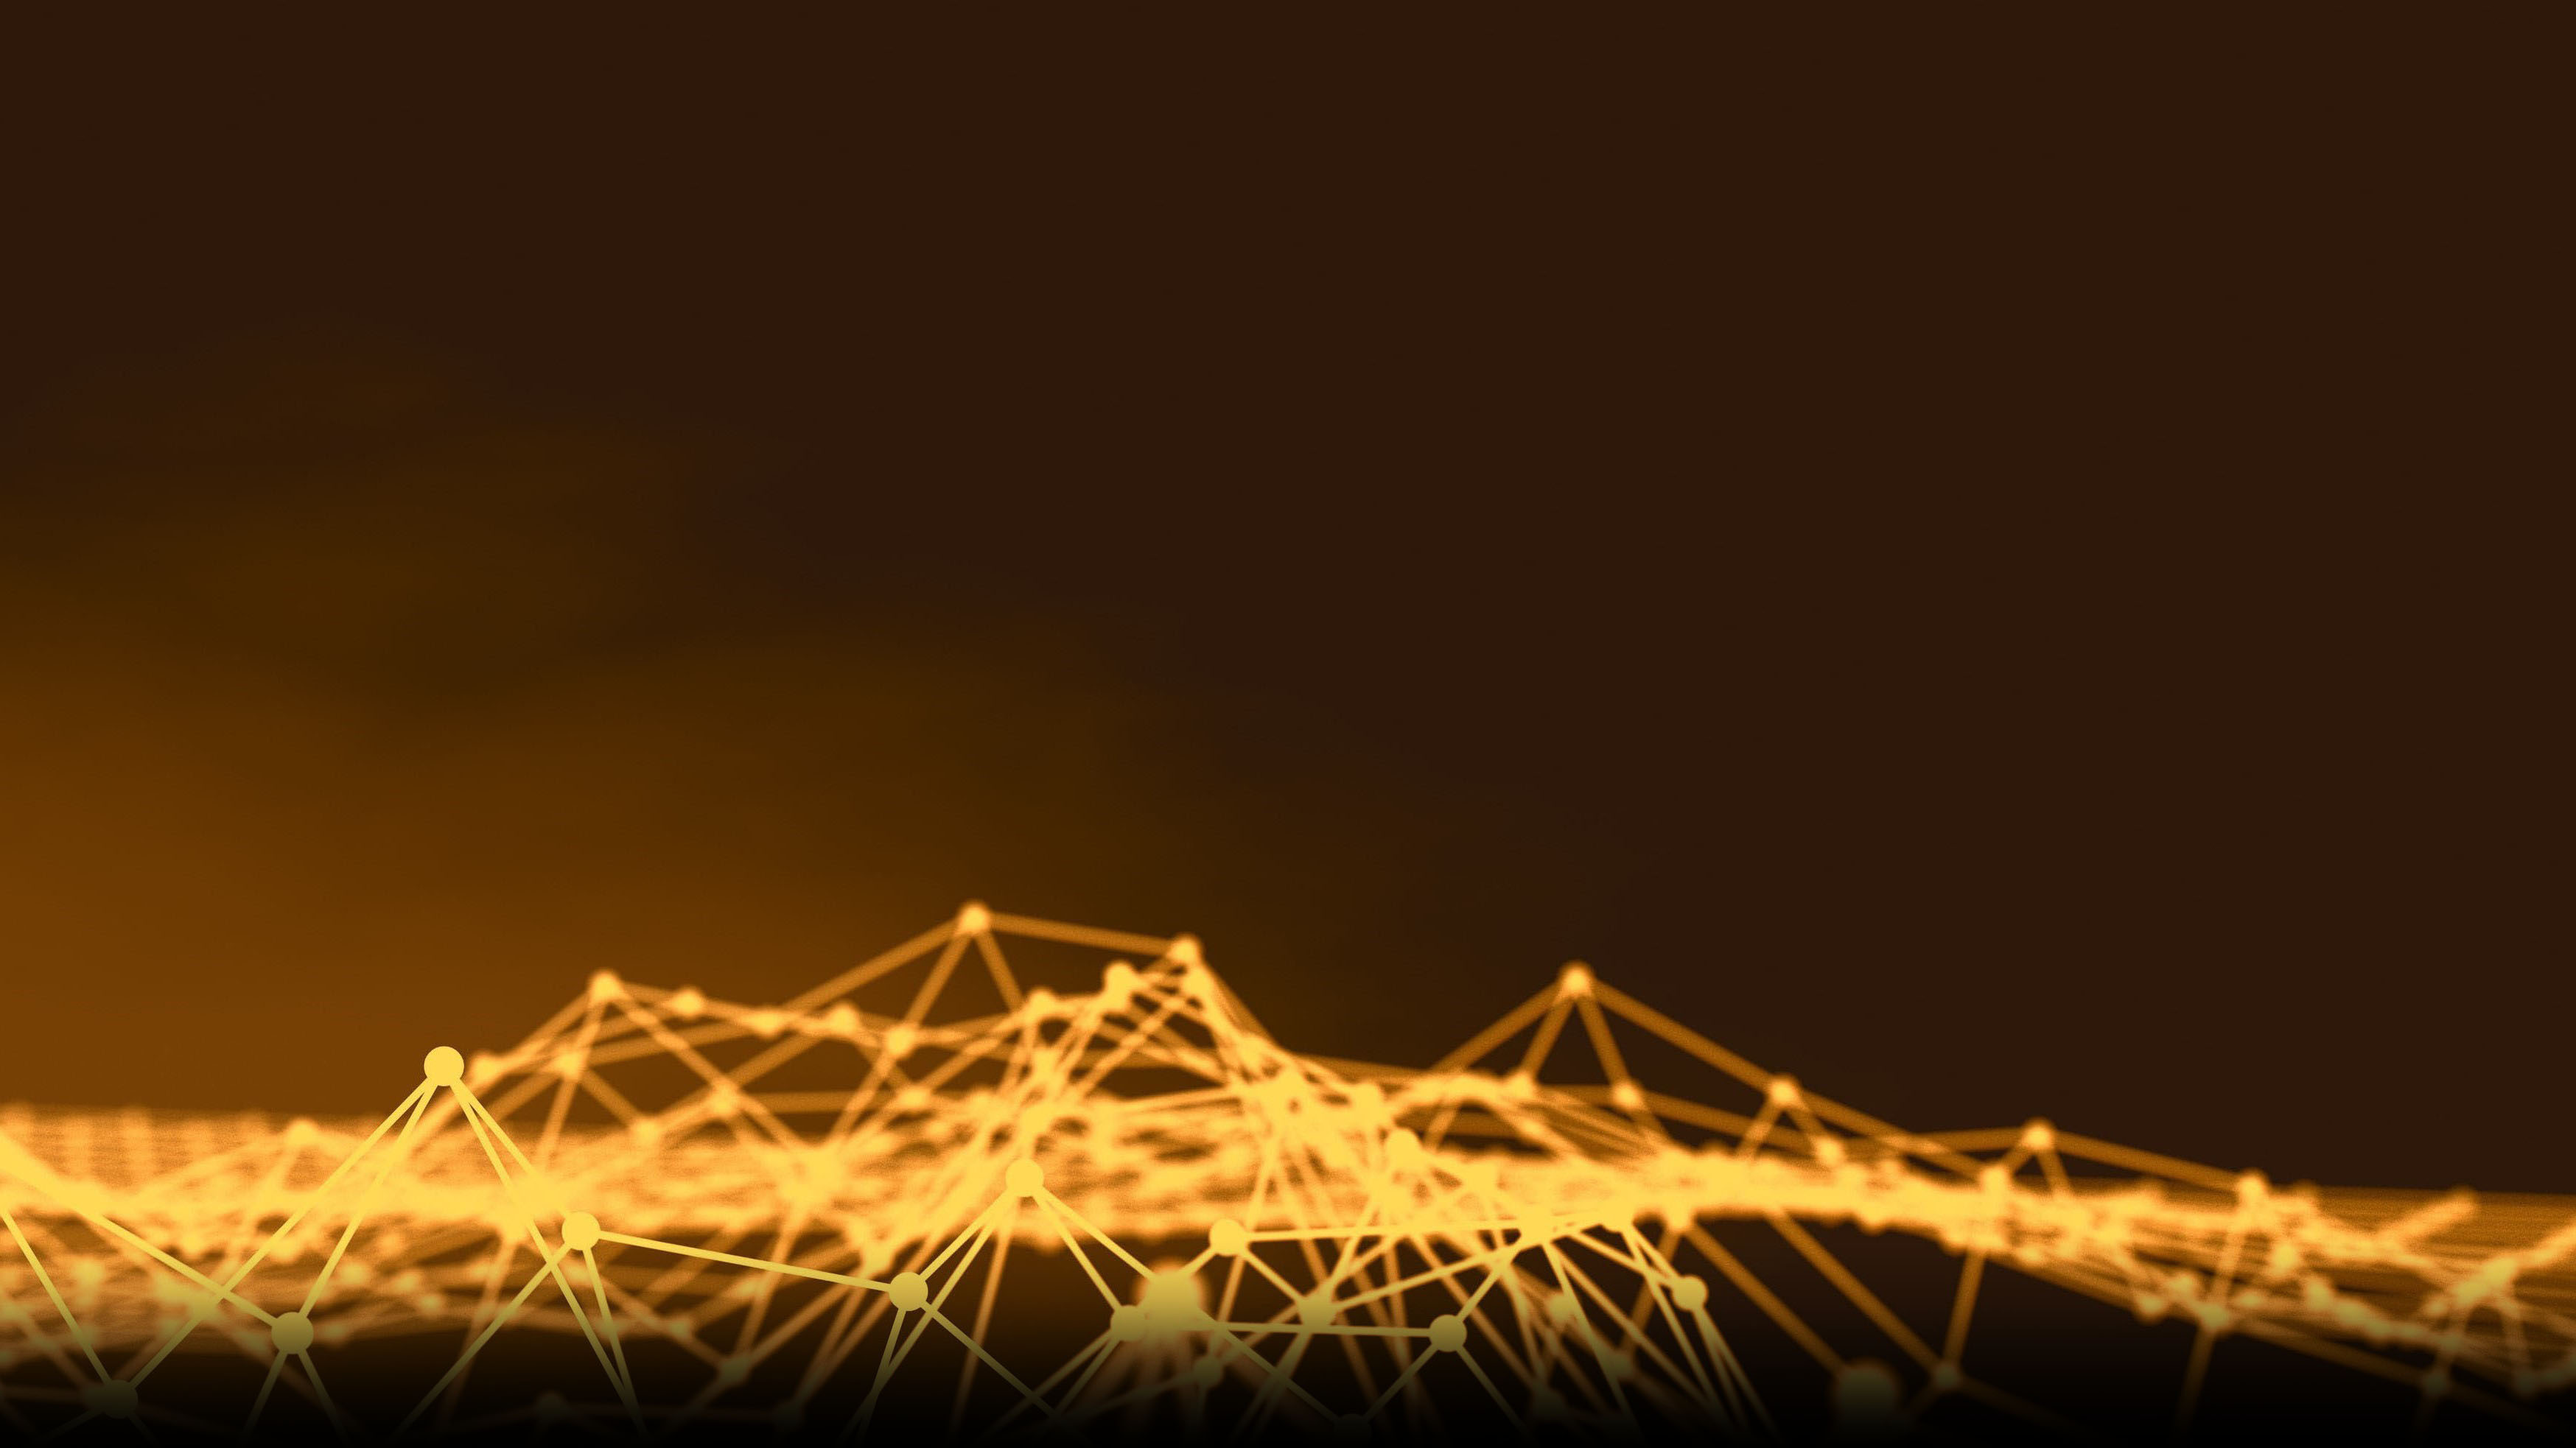
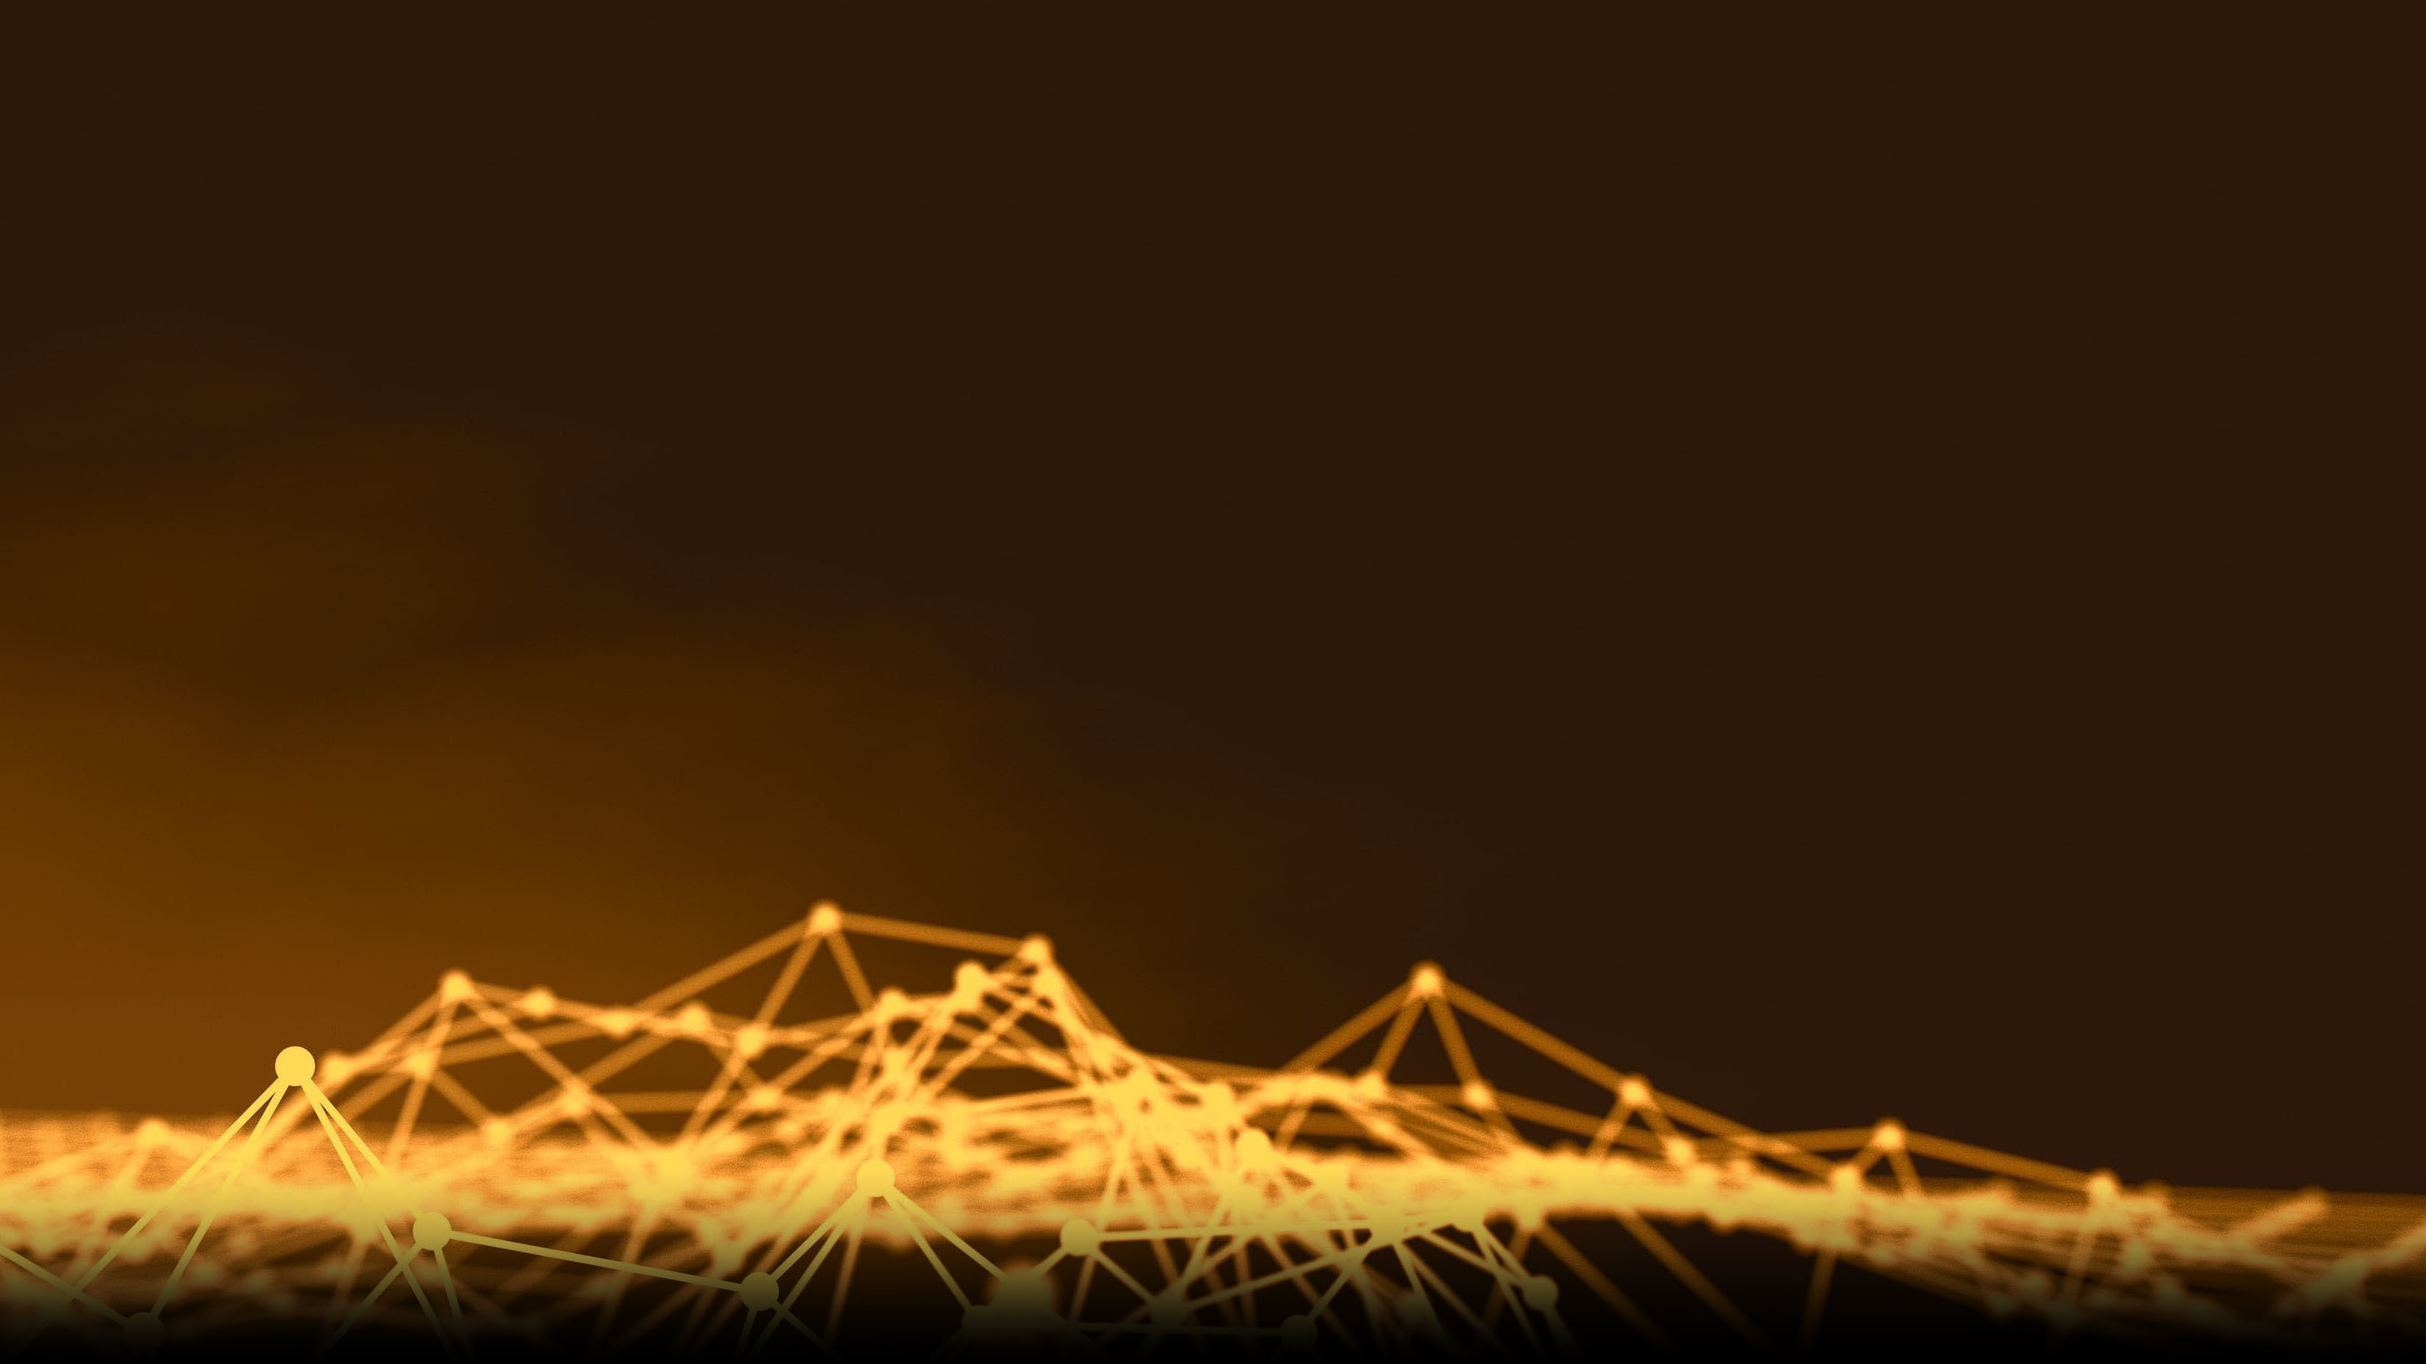
t

Changed region(s): [[0.0, 0.6156, 1.0, 0.9849]]

diff --git a/css/grayscale.min.css b/css/grayscale.min.css
@@ -2,4 +2,4 @@
  * Start Bootstrap - Grayscale v3.3.7+1 (http://startbootstrap.com/template-overviews/grayscale)
  * Copyright 2013-2016 Start Bootstrap
  * Licensed under MIT (https://github.com/BlackrockDigital/startbootstrap/blob/gh-pages/LICENSE)
- */body,html{height:100%;width:100%}.btn,.navbar-custom{text-transform:uppercase}.navbar-custom,body{background-color:#000}.intro,body,html{width:100%}body{font-family:Lora,"Helvetica Neue",Helvetica,Arial,sans-serif;color:#fff;webkit-tap-highlight-color:rgba(255,255,255,.2)}.btn,.navbar-custom,h1,h2,h3,h4,h5,h6{font-family:Montserrat,"Helvetica Neue",Helvetica,Arial,sans-serif}h1,h2,h3,h4,h5,h6{margin:0 0 35px;font-weight:700;letter-spacing:5px}p{margin:0 0 25px;font-size:18px;line-height:1.5}@media (min-width:768px){p{margin:0 0 35px;font-size:20px;line-height:1.6}}a{color:#fbff00;-webkit-transition:all .2s ease-in-out;-moz-transition:all .2s ease-in-out;transition:all .2s ease-in-out}a:focus,a:hover{text-decoration:none;color:#979900}.light{font-weight:400}.navbar-custom{margin-bottom:0;border-bottom:1px solid rgba(255,255,255,.3)}.navbar-custom .navbar-toggle{color:#fff;background-color:rgba(255,255,255,.2);font-size:12px}.navbar-custom .nav li a:active,.navbar-custom .nav li a:focus,.navbar-custom .nav li a:hover{background-color:transparent;outline:0}.navbar-custom .navbar-toggle:active,.navbar-custom .navbar-toggle:focus{outline:0}.navbar-custom .navbar-brand{font-weight:700}.navbar-custom .navbar-brand:focus{outline:0}.navbar-custom a{color:#fff}.navbar-custom .nav li a{-webkit-transition:background .3s ease-in-out;-moz-transition:background .3s ease-in-out;transition:background .3s ease-in-out}.navbar-custom .nav li a:hover{color:rgba(255,255,255,.8)}.btn-circle,.intro,.navbar-custom .nav li.active a:hover{color:#fff}.navbar-custom .nav li.active{outline:0}.navbar-custom .nav li.active a{background-color:rgba(255,255,255,.3)}@media (min-width:768px){.navbar-custom{padding:20px 0;border-bottom:none;letter-spacing:1px;background:0 0;-webkit-transition:background .5s ease-in-out,padding .5s ease-in-out;-moz-transition:background .5s ease-in-out,padding .5s ease-in-out;transition:background .5s ease-in-out,padding .5s ease-in-out}.navbar-custom.top-nav-collapse{padding:0;background:#000;border-bottom:1px solid rgba(255,255,255,.3)}}.intro{display:table;height:auto;padding:100px 0;text-align:center;background:url(../img/intro-bg.jpg) bottom center no-repeat #000;-webkit-background-size:cover;-moz-background-size:cover;background-size:cover;-o-background-size:cover}.intro .intro-body{display:table-cell;vertical-align:middle}.intro .intro-body .brand-heading{font-size:40px;letter-spacing:20px;text-shadow:-2px -2px 0 #000,2px -2px 0 #000,-2px 2px 0 #000,2px 2px 0 #000}.intro .intro-body .intro-text{font-size:26px;text-shadow:-1px -1px 0 #000,1px -1px 0 #000,-1px 1px 0 #000,1px 1px 0 #000}@media (min-width:768px){.intro{height:100%;padding:0}.intro .intro-body .brand-heading{font-size:100px}.intro .intro-body .intro-text{font-size:32px}}.btn-circle{width:70px;height:70px;margin-top:15px;padding:7px 16px;border:2px solid #fff;border-radius:100%!important;font-size:40px;background:0 0;-webkit-transition:background .3s ease-in-out;-moz-transition:background .3s ease-in-out;transition:background .3s ease-in-out}.btn-circle:focus,.btn-circle:hover{outline:0;color:#fff;background:rgba(255,255,255,.1)}.btn-circle i.animated{-webkit-transition-property:-webkit-transform;-webkit-transition-duration:.5s;-moz-transition-property:-moz-transform;-moz-transition-duration:.5s}.btn-circle:hover i.animated{-webkit-animation-name:pulse;-moz-animation-name:pulse;-webkit-animation-duration:.5s;-moz-animation-duration:.5s;-webkit-animation-iteration-count:infinite;-moz-animation-iteration-count:infinite;-webkit-animation-timing-function:linear;-moz-animation-timing-function:linear}@-webkit-keyframes pulse{0%,100%{-webkit-transform:scale(1);transform:scale(1)}50%{-webkit-transform:scale(1.2);transform:scale(1.2)}}@-moz-keyframes pulse{0%,100%{-moz-transform:scale(1);transform:scale(1)}50%{-moz-transform:scale(1.2);transform:scale(1.2)}}.content-section{padding-top:100px}.download-section{width:100%;padding:50px 0;color:#fbff00;background:url(../img/downloads-bg.png) center center no-repeat #000;-webkit-background-size:cover;-moz-background-size:cover;background-size:cover;-o-background-size:cover}#map{width:100%;height:200px;margin-top:100px}@media (min-width:767px){.content-section{padding-top:250px}.download-section{padding:100px 0}#map{height:400px;margin-top:250px}}.btn{font-weight:400;-webkit-transition:all .3s ease-in-out;-moz-transition:all .3s ease-in-out;transition:all .3s ease-in-out;border-radius:0}.btn-default{border:1px solid #fbff00;color:#fbff00;background-color:transparent}.btn-default:focus,.btn-default:hover{border:1px solid #fbff00;outline:0;color:#000;background-color:#fbff00}ul.banner-social-buttons{margin-top:0}@media (max-width:1199px){ul.banner-social-buttons{margin-top:15px}}@media (max-width:767px){ul.banner-social-buttons li{display:block;margin-bottom:20px;padding:0}ul.banner-social-buttons li:last-child{margin-bottom:0}}footer{padding:50px 0}footer p{margin:0}::-moz-selection{text-shadow:none;background:#fcfcfc;background:rgba(255,255,255,.2)}::selection{text-shadow:none;background:#fcfcfc;background:rgba(255,255,255,.2)}img::selection{background:0 0}img::-moz-selection{background:0 0}
+ */body,html{height:100%;width:100%}.btn,.navbar-custom{text-transform:uppercase}.navbar-custom,body{background-color:#000}.intro,body,html{width:100%}body{font-family:Lora,"Helvetica Neue",Helvetica,Arial,sans-serif;color:#fff;webkit-tap-highlight-color:rgba(255,255,255,.2)}.btn,.navbar-custom,h1,h2,h3,h4,h5,h6{font-family:Montserrat,"Helvetica Neue",Helvetica,Arial,sans-serif}h1,h2,h3,h4,h5,h6{margin:0 0 35px;font-weight:700;letter-spacing:5px}p{margin:0 0 25px;font-size:18px;line-height:1.5}@media (min-width:768px){p{margin:0 0 35px;font-size:20px;line-height:1.6}}a{color:#fed154;-webkit-transition:all .2s ease-in-out;-moz-transition:all .2s ease-in-out;transition:all .2s ease-in-out}a:focus,a:hover{text-decoration:none;color:#ebad01}.light{font-weight:400}.navbar-custom{margin-bottom:0;border-bottom:1px solid rgba(255,255,255,.3)}.navbar-custom .navbar-toggle{color:#fff;background-color:rgba(255,255,255,.2);font-size:12px}.navbar-custom .nav li a:active,.navbar-custom .nav li a:focus,.navbar-custom .nav li a:hover{background-color:transparent;outline:0}.navbar-custom .navbar-toggle:active,.navbar-custom .navbar-toggle:focus{outline:0}.navbar-custom .navbar-brand{font-weight:700}.navbar-custom .navbar-brand:focus{outline:0}.navbar-custom a{color:#fff}.navbar-custom .nav li a{-webkit-transition:background .3s ease-in-out;-moz-transition:background .3s ease-in-out;transition:background .3s ease-in-out}.navbar-custom .nav li a:hover{color:rgba(255,255,255,.8)}.btn-circle,.intro,.navbar-custom .nav li.active a:hover{color:#fff}.navbar-custom .nav li.active{outline:0}.navbar-custom .nav li.active a{background-color:rgba(255,255,255,.3)}@media (min-width:768px){.navbar-custom{padding:20px 0;border-bottom:none;letter-spacing:1px;background:0 0;-webkit-transition:background .5s ease-in-out,padding .5s ease-in-out;-moz-transition:background .5s ease-in-out,padding .5s ease-in-out;transition:background .5s ease-in-out,padding .5s ease-in-out}.navbar-custom.top-nav-collapse{padding:0;background:#000;border-bottom:1px solid rgba(255,255,255,.3)}}.intro{display:table;height:auto;padding:100px 0;text-align:center;background:url(../img/intro-bg.jpg) bottom center no-repeat #000;-webkit-background-size:cover;-moz-background-size:cover;background-size:cover;-o-background-size:cover}.intro .intro-body{display:table-cell;vertical-align:middle}.intro .intro-body .brand-heading{font-size:40px;letter-spacing:20px;text-shadow:-2px -2px 0 #000,2px -2px 0 #000,-2px 2px 0 #000,2px 2px 0 #000}.intro .intro-body .intro-text{font-size:26px;text-shadow:-1px -1px 0 #000,1px -1px 0 #000,-1px 1px 0 #000,1px 1px 0 #000}@media (min-width:768px){.intro{height:100%;padding:0}.intro .intro-body .brand-heading{font-size:100px}.intro .intro-body .intro-text{font-size:32px}}.btn-circle{width:70px;height:70px;margin-top:15px;padding:7px 16px;border:2px solid #fff;border-radius:100%!important;font-size:40px;background:0 0;-webkit-transition:background .3s ease-in-out;-moz-transition:background .3s ease-in-out;transition:background .3s ease-in-out}.btn-circle:focus,.btn-circle:hover{outline:0;color:#fff;background:rgba(255,255,255,.1)}.btn-circle i.animated{-webkit-transition-property:-webkit-transform;-webkit-transition-duration:.5s;-moz-transition-property:-moz-transform;-moz-transition-duration:.5s}.btn-circle:hover i.animated{-webkit-animation-name:pulse;-moz-animation-name:pulse;-webkit-animation-duration:.5s;-moz-animation-duration:.5s;-webkit-animation-iteration-count:infinite;-moz-animation-iteration-count:infinite;-webkit-animation-timing-function:linear;-moz-animation-timing-function:linear}@-webkit-keyframes pulse{0%,100%{-webkit-transform:scale(1);transform:scale(1)}50%{-webkit-transform:scale(1.2);transform:scale(1.2)}}@-moz-keyframes pulse{0%,100%{-moz-transform:scale(1);transform:scale(1)}50%{-moz-transform:scale(1.2);transform:scale(1.2)}}.content-section{padding-top:100px}.download-section{width:100%;padding:50px 0;color:#fed154;background:url(../img/downloads-bg.png) center center no-repeat #000;-webkit-background-size:cover;-moz-background-size:cover;background-size:cover;-o-background-size:cover}#map{width:100%;height:200px;margin-top:100px}@media (min-width:767px){.content-section{padding-top:250px}.download-section{padding:100px 0}#map{height:400px;margin-top:250px}}.btn{font-weight:400;-webkit-transition:all .3s ease-in-out;-moz-transition:all .3s ease-in-out;transition:all .3s ease-in-out;border-radius:0}.btn-default{border:1px solid #fed154;color:#fed154;background-color:transparent}.btn-default:focus,.btn-default:hover{border:1px solid #fed154;outline:0;color:#000;background-color:#fed154}ul.banner-social-buttons{margin-top:0}@media (max-width:1199px){ul.banner-social-buttons{margin-top:15px}}@media (max-width:767px){ul.banner-social-buttons li{display:block;margin-bottom:20px;padding:0}ul.banner-social-buttons li:last-child{margin-bottom:0}}footer{padding:50px 0}footer p{margin:0}::-moz-selection{text-shadow:none;background:#fcfcfc;background:rgba(255,255,255,.2)}::selection{text-shadow:none;background:#fcfcfc;background:rgba(255,255,255,.2)}img::selection{background:0 0}img::-moz-selection{background:0 0}

diff --git a/css/grayscale.css b/css/grayscale.css
@@ -38,7 +38,7 @@ p {
   }
 }
 a {
-  color: #fbff00;
+  color: #fed154;
   -webkit-transition: all 0.2s ease-in-out;
   -moz-transition: all 0.2s ease-in-out;
   transition: all 0.2s ease-in-out;
@@ -46,7 +46,7 @@ a {
 a:hover,
 a:focus {
   text-decoration: none;
-  color: #979900;
+  color: #ebad01;
 }
 .light {
   font-weight: 400;
@@ -225,7 +225,7 @@ a:focus {
 .download-section {
   width: 100%;
   padding: 50px 0;
-  color: #fbff00;
+  color: #fed154;
   background: url(../img/downloads-bg.png) no-repeat center center scroll;
   background-color: black;
   -webkit-background-size: cover;
@@ -260,16 +260,16 @@ a:focus {
   border-radius: 0;
 }
 .btn-default {
-  border: 1px solid #fbff00;
-  color: #fbff00;
+  border: 1px solid #fed154;
+  color: #fed154;
   background-color: transparent;
 }
 .btn-default:hover,
 .btn-default:focus {
-  border: 1px solid #fbff00;
+  border: 1px solid #fed154;
   outline: none;
   color: black;
-  background-color: #fbff00;
+  background-color: #fed154;
 }
 ul.banner-social-buttons {
   margin-top: 0;

diff --git a/less/grayscale.less b/less/grayscale.less
@@ -249,7 +249,7 @@ a {
 .download-section {
     width: 100%;
     padding: 50px 0;
-    color: #fbff00;
+    color: #fed154;
     background: url(../img/downloads-bg.png) no-repeat center center scroll;
     background-color: black;
     -webkit-background-size: cover;

diff --git a/less/variables.less b/less/variables.less
@@ -1,3 +1,3 @@
 // Variables
 
-@primary: #fbff00;
+@primary: #fed154;
